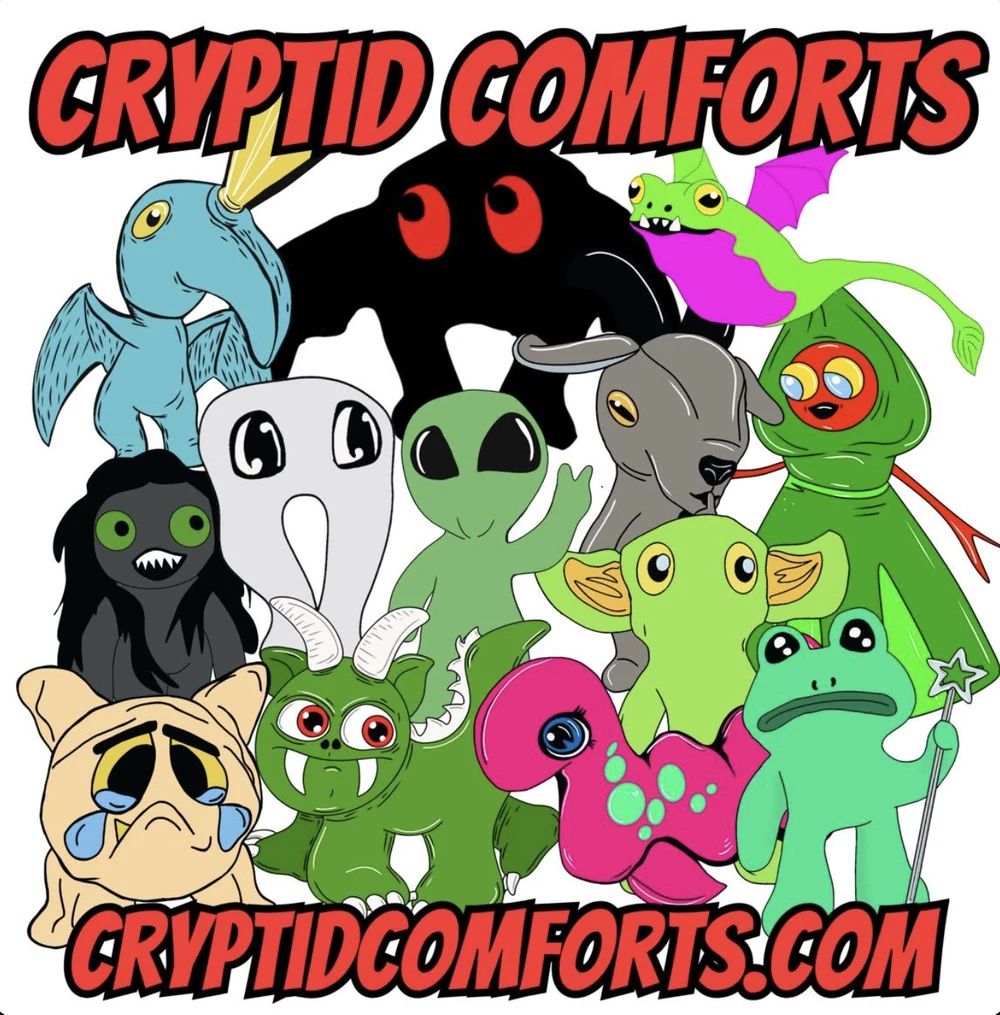
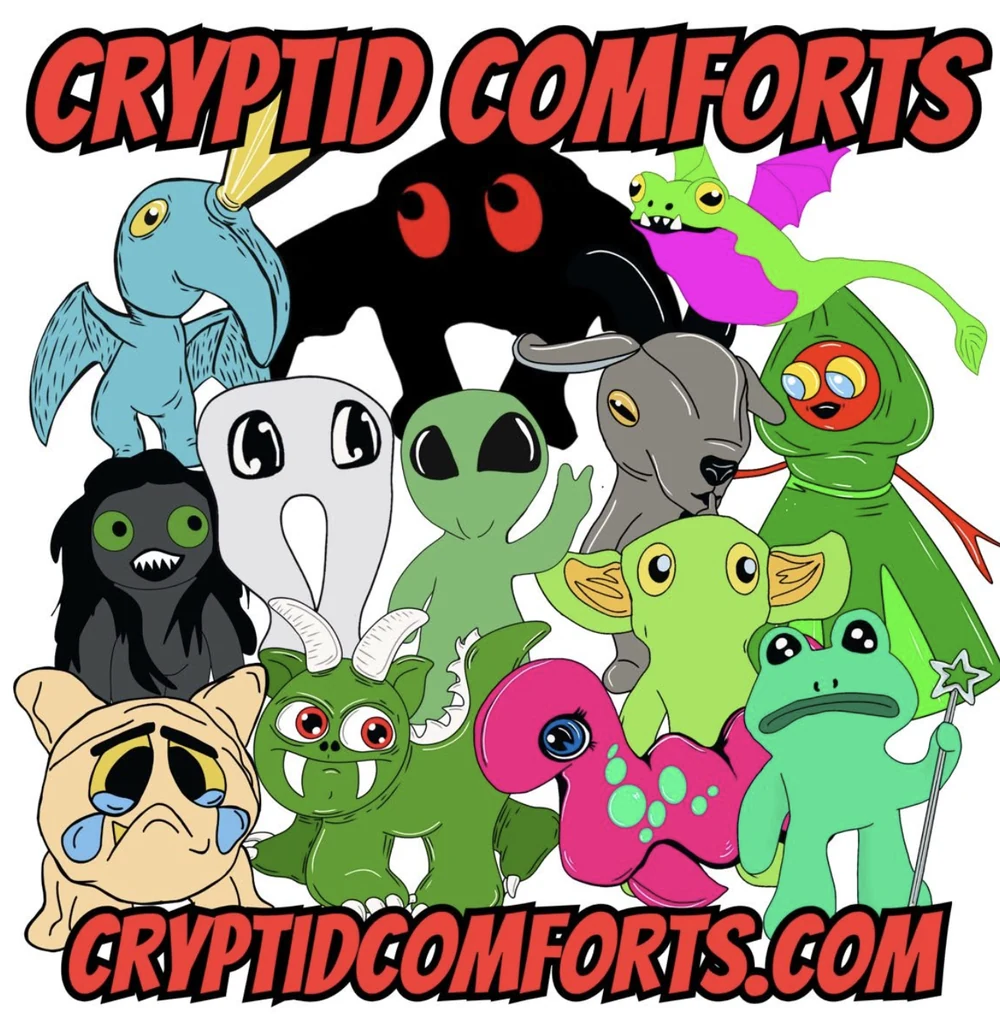
Jett Yates, and a better image for Cryptid Comforts

diff --git a/content/artists/jett-yates.md b/content/artists/jett-yates.md
@@ -1,0 +1,58 @@
+---
+name: Jett Yates
+summary: Watercolour, ink and gouache cryptids from Lexington, Kentucky, by somebody who has gone and stood in most of the places first.
+location: Lexington, Kentucky
+medium: Watercolour, ink and gouache
+featureOrder: 5
+permission: true
+
+image: /images/artists/jett-yates.webp
+imageCredit: "A selection of Jett's work. Courtesy of the artist."
+
+links:
+  - label: Instagram
+    href: https://www.instagram.com/jett_yates
+---
+
+In her own words:
+
+> I am a professional artist and character designer from Lexington, Ky that
+> enjoys illustrating cryptids, dragons, monsters and the like. I love the
+> stories and first-hand experiences of those who have encountered cryptids, as
+> well as visiting the areas and learning of these creatures first hand. I've
+> explored the Mothman nests in Point Pleasant, West Virginia, eaten next to
+> little green men in Roswell, New Mexico, visited Sarah Good's gravesite in
+> Salem, Massachusetts, gone looking for the Cumberland dragon in my home state
+> of Kentucky, and explored many other well-known magical places! I use
+> primarily watercolour, ink and gouache in my work, attempting to create fun or
+> scary imaginings of these creatures while sticking close to their original
+> folklore depictions. My favourite cryptid is, of course, the Cumberland
+> Dragon, but the Lufferlang is a close second.
+
+## She Has Been To The Places
+
+Every location in that paragraph is already in this index. Point Pleasant has
+the statue, the museum and the TNT area. Roswell has the UFO Museum. Salem has
+the Witch Trials Memorial and Proctor's Ledge, where the hangings actually
+happened.
+
+She went to all of them and then drew what they are about. That is a different
+process from working off a photograph, and you can see it in the work — the
+creatures are recognisable as themselves rather than as somebody's redesign,
+which is exactly what she says she is going for.
+
+## The Lufferlang
+
+Naming the Cumberland Dragon first is fair enough for a Kentuckian. Putting the
+Lufferlang second is the tell.
+
+It is a fearsome critter out of the same lumberjack tradition as the squonk —
+a beast with a leg at each corner that can only turn in a circle, so the
+approved defence is to stand still and let it go past. It is not on anybody's
+list of famous cryptids. Knowing it is second-favourite is knowing the whole
+field.
+
+## Where To Find The Work
+
+Instagram, and her own summary of where else: anywhere campfire stories can be
+told.
